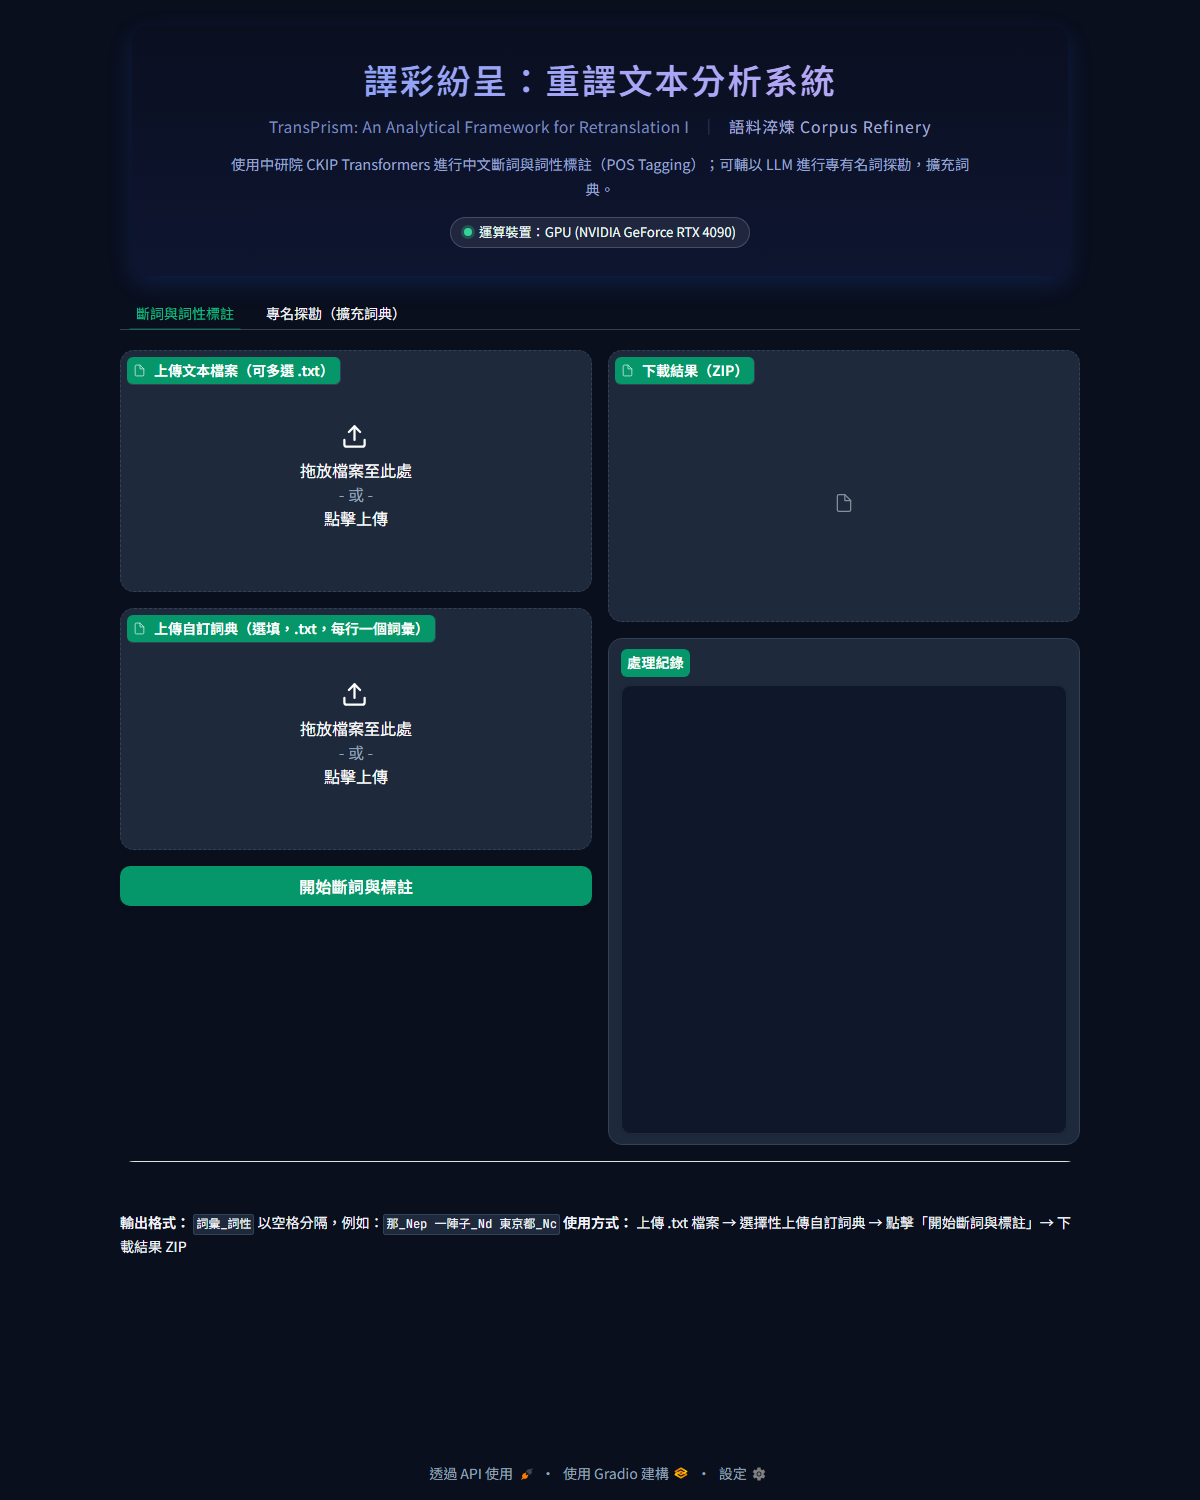
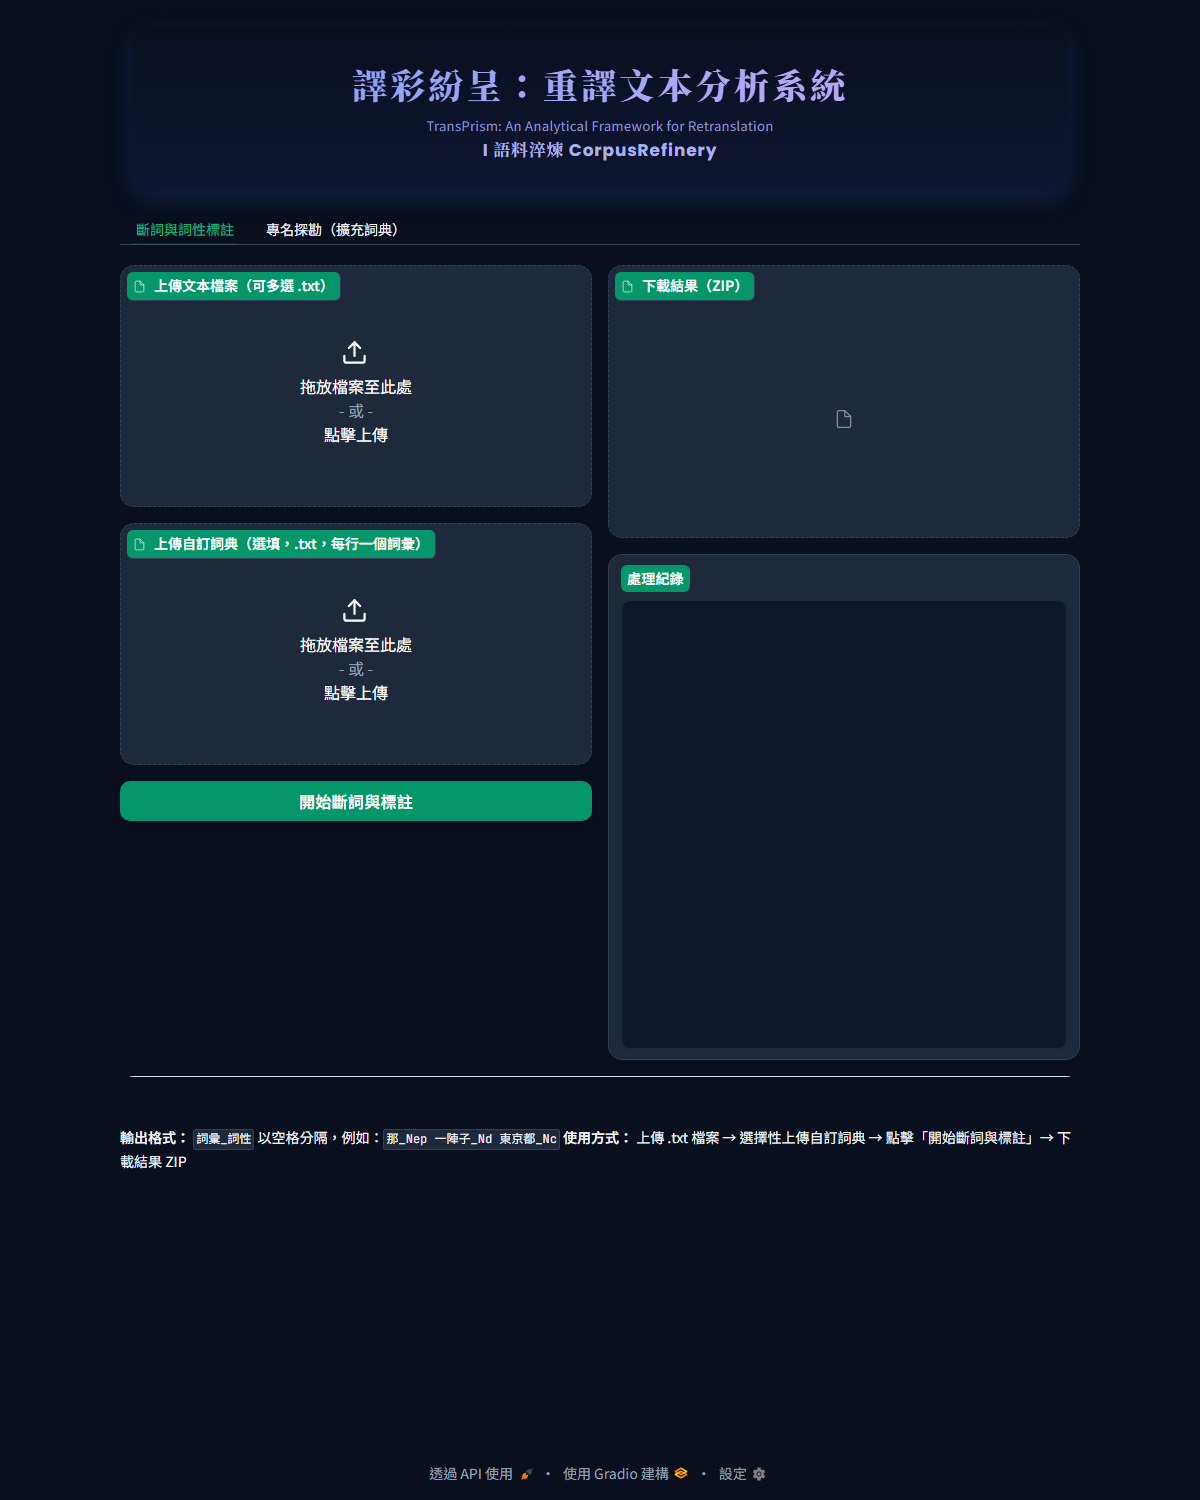
style: 標題改為三行襯線字型、精簡專名探勘說明，並更新介面截圖
- 首頁標題改為三行（主標／英文副標／I 語料淬煉 CorpusRefinery），
  主標改用襯線字型（Noto Serif TC），比照系列模組樣式
- 移除標題下方說明段與裝置標籤，維持乾淨三行
- 精簡「專名探勘」分頁說明文字
- 更新 README 介面預覽截圖

Changed region(s): [[0.0925, 0.0307, 0.925, 0.6133], [0.0925, 0.7053, 0.925, 0.8587], [0.8942, 0.3987, 0.925, 0.4293]]

diff --git a/app.py b/app.py
@@ -937,7 +937,7 @@ THEME = gr.themes.Soft(
 )
 
 CUSTOM_CSS = """
-@import url('https://fonts.googleapis.com/css2?family=Poppins:wght@500;600;700&display=swap');
+@import url('https://fonts.googleapis.com/css2?family=Poppins:wght@500;600;700&family=Noto+Serif+TC:wght@600;700;900&display=swap');
 .gradio-container { max-width: 1180px !important; margin: 0 auto !important; }
 * { -webkit-font-smoothing: antialiased; text-rendering: optimizeLegibility; }
 .app-header h1, h1, h2, h3 { font-family: 'Poppins', 'Noto Sans TC', sans-serif; }
@@ -951,19 +951,24 @@ CUSTOM_CSS = """
 }
 /* 主標題：大字、藍→紫漸層文字 */
 .app-header .app-title {
-  margin: 0; font-size: 2.15rem; font-weight: 700; letter-spacing: 2px; line-height: 1.3;
+  margin: 0; font-family: 'Noto Serif TC', serif;
+  font-size: 2.2rem; font-weight: 900; letter-spacing: 3px; line-height: 1.35;
   background: linear-gradient(90deg, #7C9EF8 0%, #A6A6F6 50%, #C2A8F2 100%);
   -webkit-background-clip: text; background-clip: text;
   -webkit-text-fill-color: transparent; color: #A6A6F6;
 }
 /* 次標題：小字、淺色，兩段以直線分隔，置中 */
-.app-header .app-subtitle {
-  margin: .55rem 0 0; font-size: .98rem; line-height: 1.6;
-  display: flex; flex-wrap: wrap; justify-content: center; align-items: center; gap: 12px;
+/* 第二行：較小字、較淡 */
+.app-header .app-sub2 {
+  margin: .5rem 0 0; font-size: .82rem; font-weight: 400; line-height: 1.5;
+  color: #8893C9; letter-spacing: .3px; text-align: center;
 }
-.app-header .sub-en  { color: #7C88BE; letter-spacing: .3px; }
-.app-header .sub-sep { color: #424E7C; }
-.app-header .sub-zh  { color: #A2ABD6; letter-spacing: 1px; }
+/* 第三行：粗體、亮藍紫，較醒目（中文襯線、拉丁無襯線） */
+.app-header .app-sub3 {
+  margin: .18rem 0 0; font-family: 'Poppins', 'Noto Serif TC', sans-serif;
+  font-size: 1.05rem; font-weight: 700; line-height: 1.5;
+  color: #AAB2EC; letter-spacing: 1px; text-align: center;
+}
 .app-header .app-desc {
   margin: .85rem auto 0; max-width: 760px; color: #9AA4D0;
   font-size: .9rem; line-height: 1.7;
@@ -1004,13 +1009,8 @@ with gr.Blocks(title="譯彩紛呈：重譯文本分析系統") as app:
         f"""
         <div class="app-header">
           <h1 class="app-title">譯彩紛呈：重譯文本分析系統</h1>
-          <p class="app-subtitle">
-            <span class="sub-en">TransPrism: An Analytical Framework for Retranslation I</span>
-            <span class="sub-sep">│</span>
-            <span class="sub-zh">語料淬煉 Corpus Refinery</span>
-          </p>
-          <p class="app-desc">使用中研院 CKIP Transformers 進行中文斷詞與詞性標註（POS Tagging）；可輔以 LLM 進行專有名詞探勘，擴充詞典。</p>
-          <span class="badge"><span class="dot"></span>運算裝置：{device_name}</span>
+          <p class="app-sub2">TransPrism: An Analytical Framework for Retranslation</p>
+          <p class="app-sub3">I 語料淬煉 CorpusRefinery</p>
         </div>
         """
     )
@@ -1065,9 +1065,8 @@ with gr.Blocks(title="譯彩紛呈：重譯文本分析系統") as app:
         # ── 分頁 2：專名探勘（找出詞典未收錄的專有名詞）──────────
         with gr.TabItem("專名探勘（擴充詞典）"):
             gr.Markdown(
-                "上傳文本，系統會用 **NER** 找出專有名詞候選，再交給 **LLM** "
-                "判斷哪些是真正的專名（過濾神祇泛稱、慣用語、切散殘片等誤判）。"
-                "你可在表格勾選確認後，匯出併入原詞典的新詞典檔。"
+                "上傳文本後，系統自動識別專有名詞候選，經 **LLM** 篩選確認。"
+                "勾選後併入原詞典，匯出為新詞典檔。"
             )
             with gr.Row():
                 with gr.Column(scale=1):